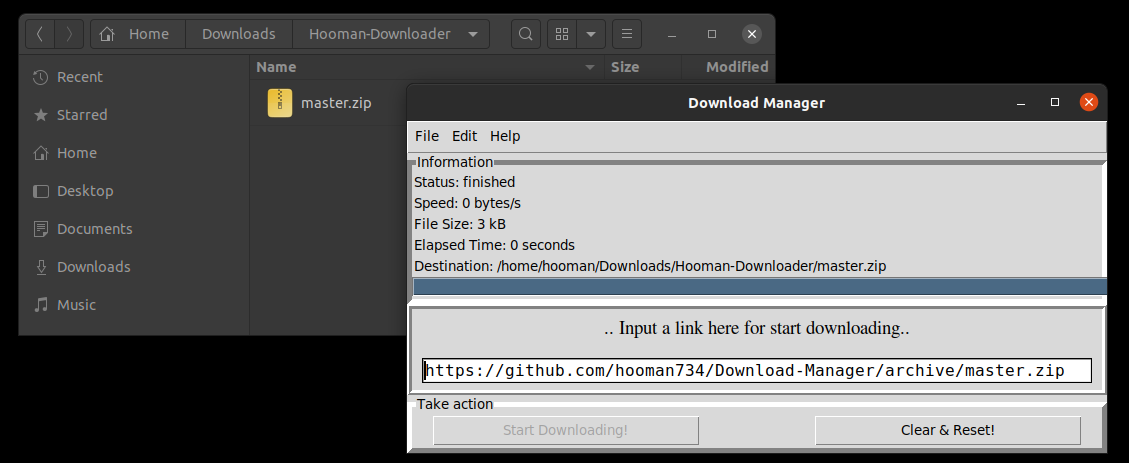
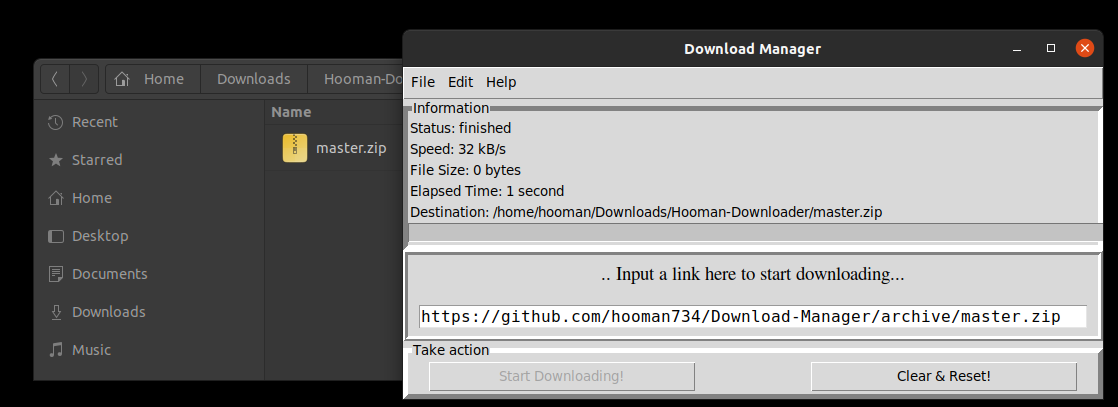
revise text

diff --git a/App.py b/App.py
@@ -165,7 +165,7 @@ progress = ttk.Progressbar(frame_status, orient=HORIZONTAL, length=700, mode='de
 progress.grid(row=6, column=0, sticky=W + E)
 
 # widgets
-label_link = tk.Label(frame_input, text=".. Input a link here for start downloading..", font=('Times', 14))
+label_link = tk.Label(frame_input, text=".. Input a link here to start downloading...", font=('Times', 14))
 label_link.pack(fill=X, side=TOP, pady=10)
 entry_link = tk.Entry(frame_input, textvariable=input_link, font=('Mono', 12))
 entry_link.pack(fill=X, expand=1, side=LEFT, pady=5, padx=10)
